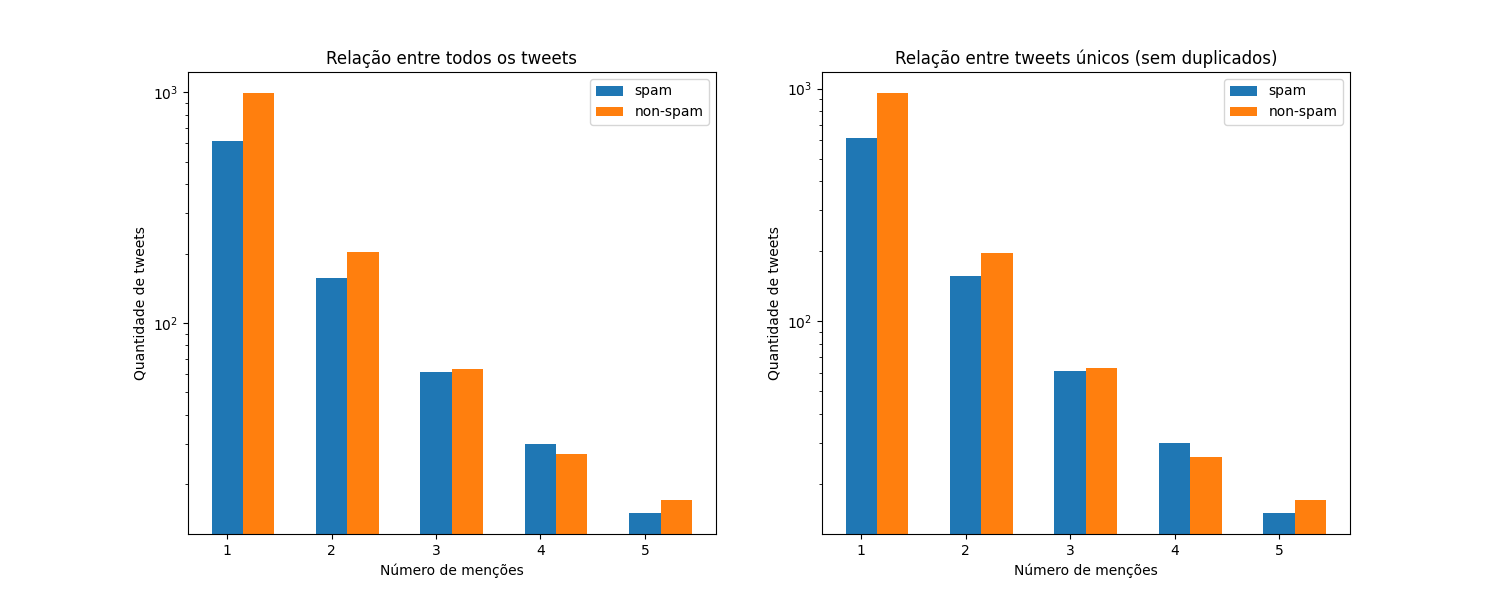
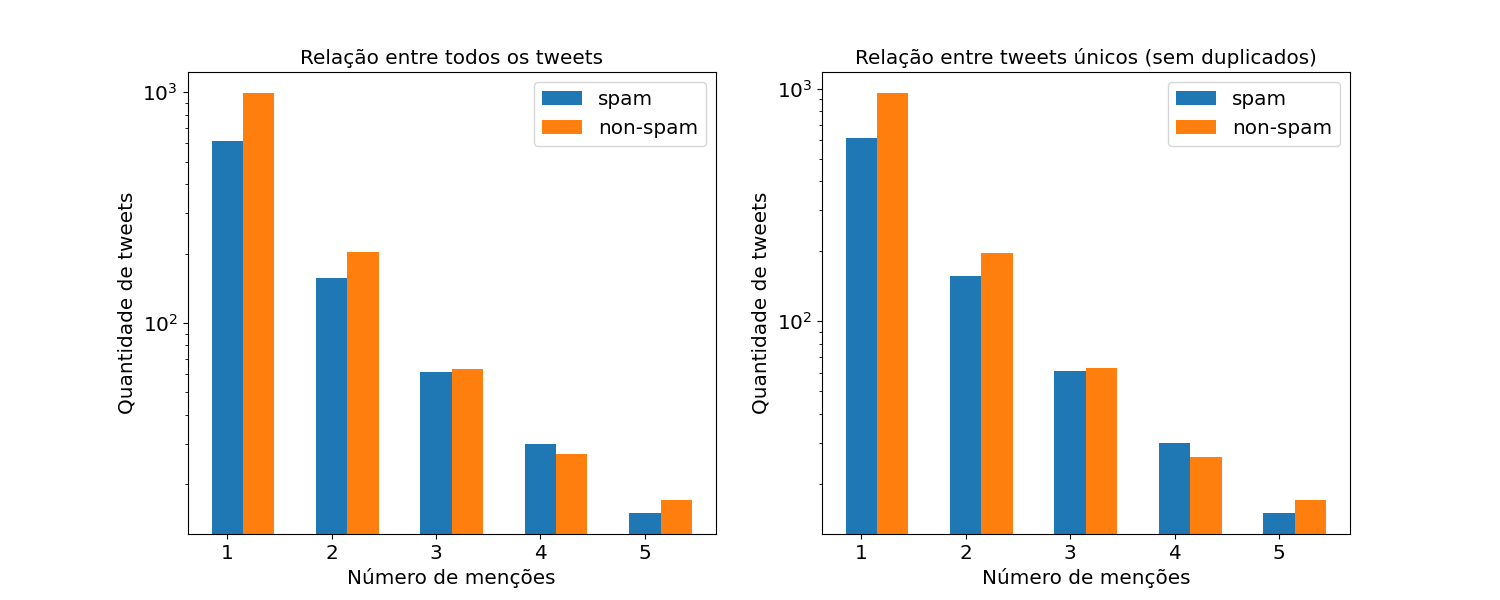
ajustes notebook

diff --git a/model/charts.py b/model/charts.py
@@ -1,6 +1,14 @@
 import pandas as pd
 import numpy as np
 import matplotlib.pyplot as plt
+import matplotlib.pylab as pylab
+params = {'legend.fontsize': 'x-large',
+          'figure.figsize': (15, 6),
+         'axes.labelsize': 'x-large',
+         'axes.titlesize':'x-large',
+         'xtick.labelsize':'x-large',
+         'ytick.labelsize':'x-large'}
+pylab.rcParams.update(params)
 
 from model import utils
 from model import charts
@@ -26,7 +34,8 @@ class Charts(object):
         
         fig, axes = plt.subplots(nrows=1, ncols=2, figsize=(15, 6))
         axes[0].set_title(description[0])
-        axes[0].pie(all_sizes, labels=labels, autopct='%1.2f%%', startangle=90)
+        axes[0].pie(all_sizes, autopct='%1.2f%%', startangle=90)
+        axes[0].legend(labels, loc="best")
         axes[0].axis('equal')
         
         spam = len(df2[df2[column] == comp1])
@@ -34,7 +43,8 @@ class Charts(object):
         unique_sizes = [spam/len(df2), non_spam/len(df2)]
 
         axes[1].set_title(description[1])
-        axes[1].pie(unique_sizes, labels=labels, autopct='%1.2f%%', startangle=90)
+        axes[1].pie(unique_sizes, autopct='%1.2f%%', startangle=90)
+        axes[1].legend(labels, loc="best")
         axes[1].axis('equal')
         
         #plt.show()
